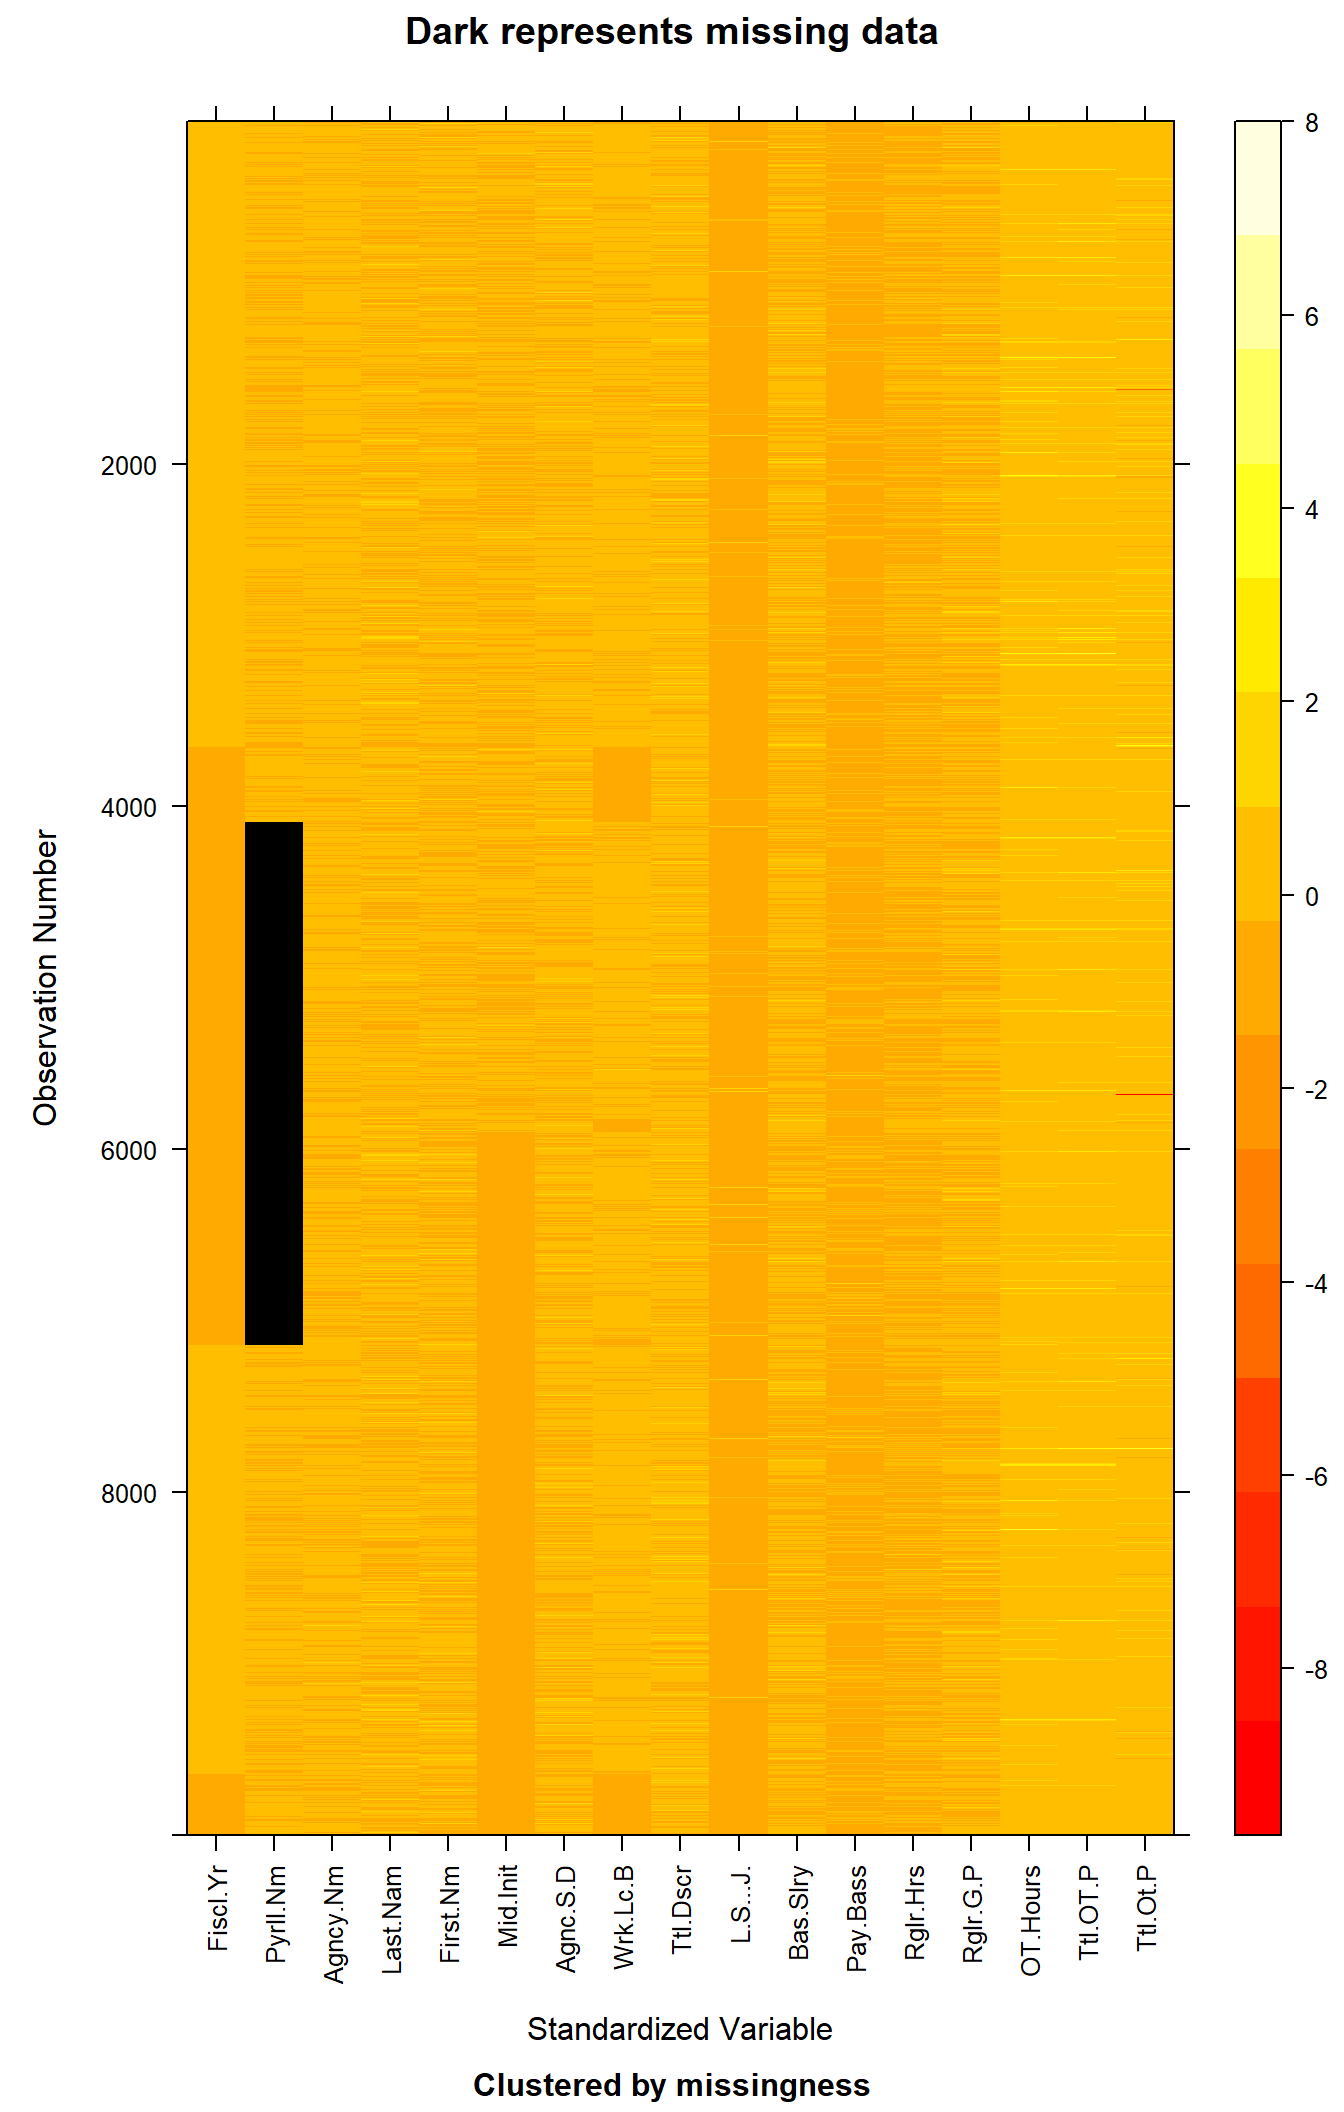
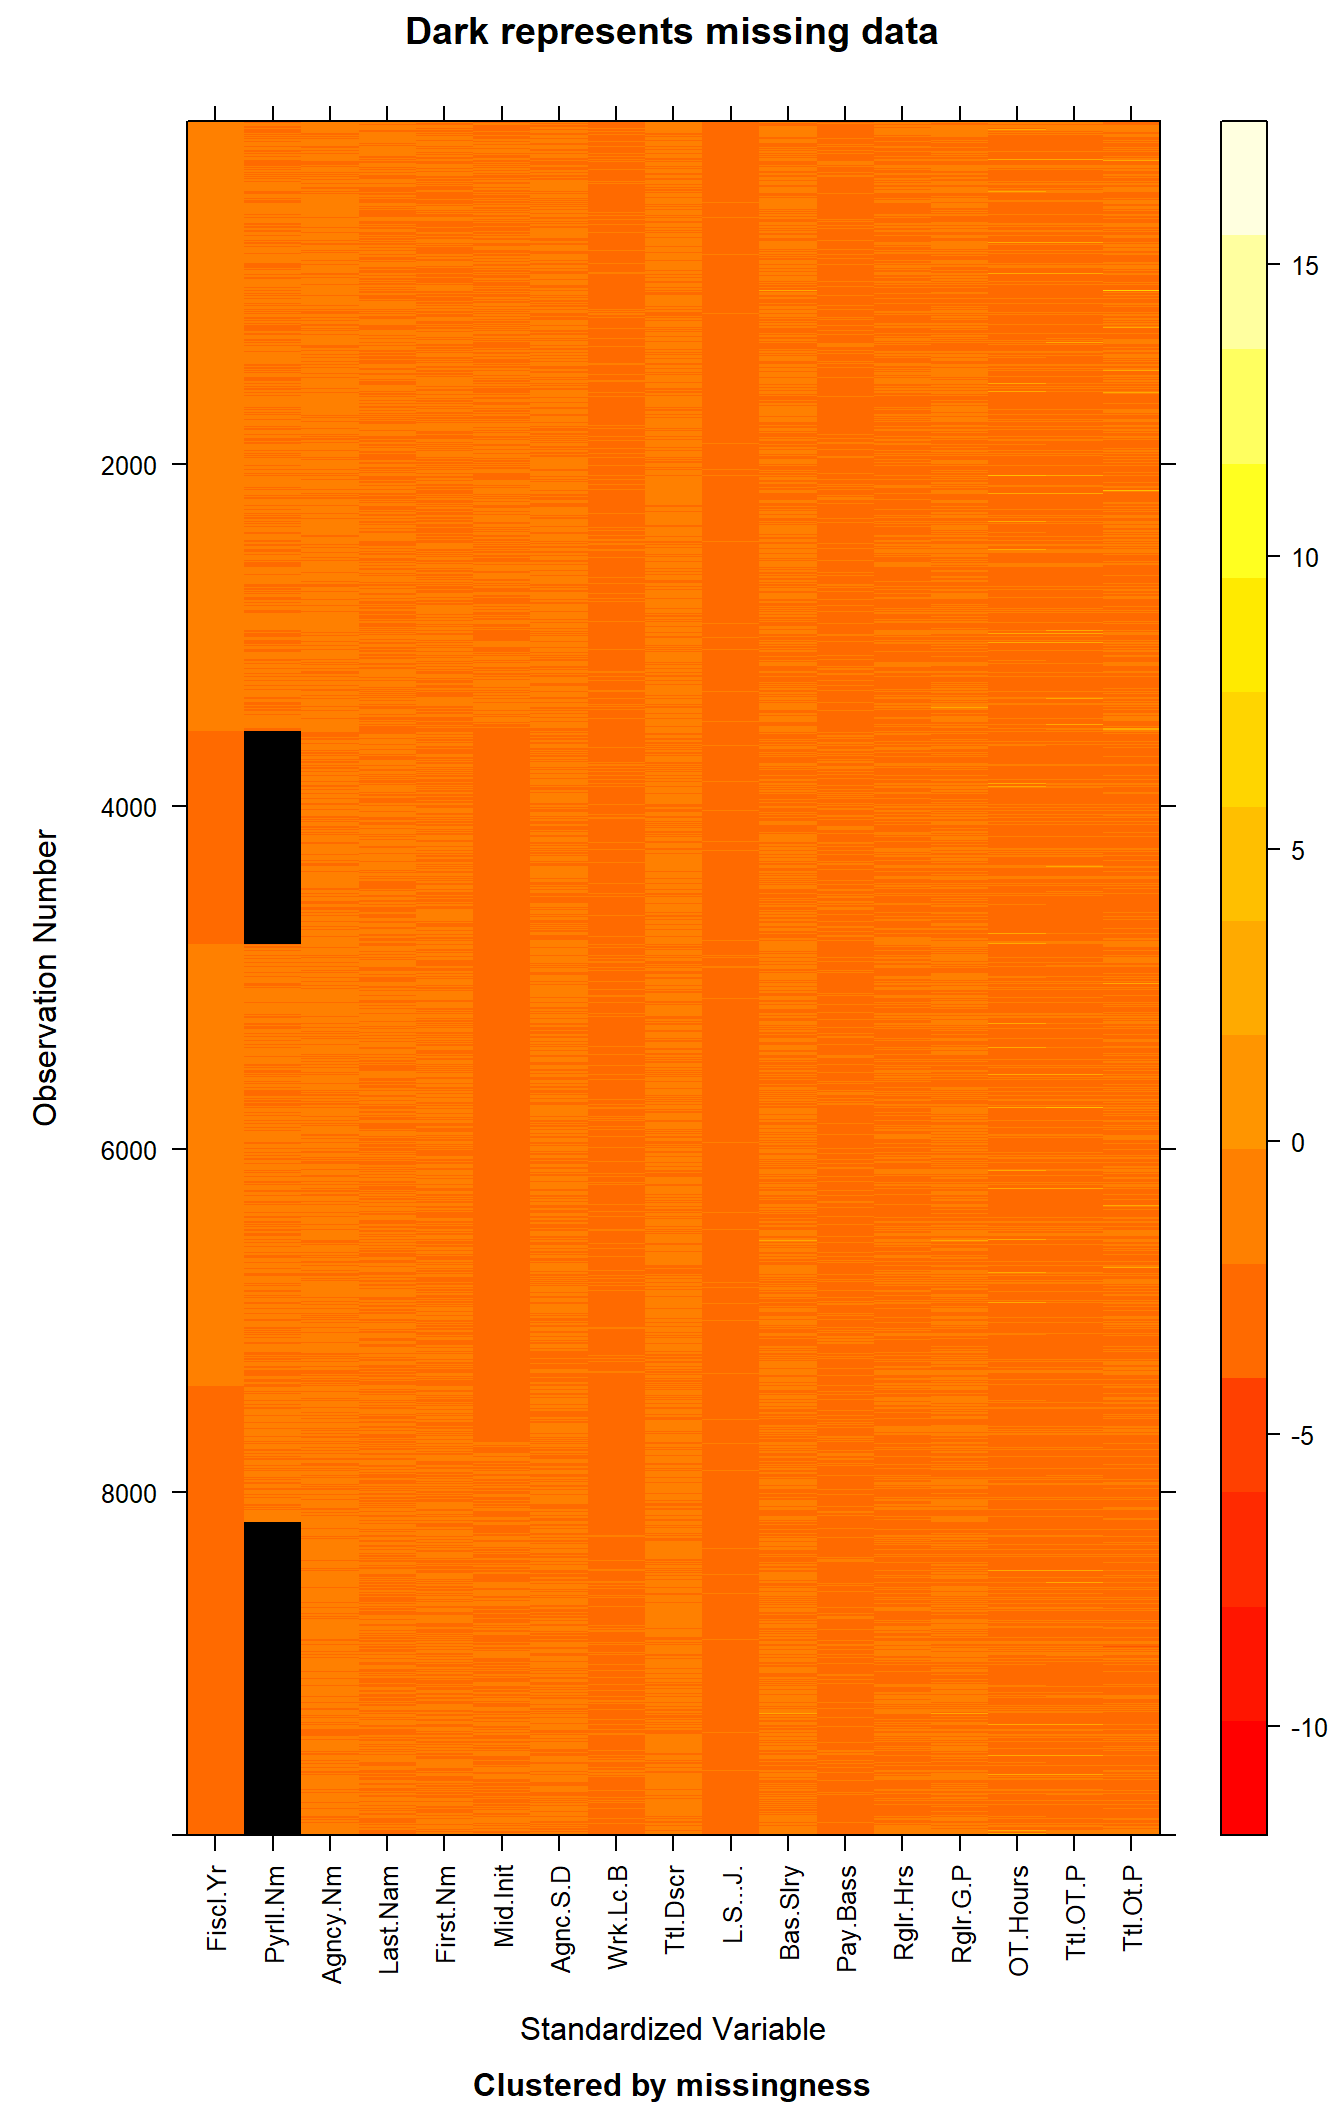
Random Sample and description changes

diff --git a/docs/data.html b/docs/data.html
@@ -224,7 +224,7 @@ pre > code.sourceCode > span > a:first-child::before { text-decoration: underlin
 <summary>Code</summary>
 <div class="sourceCode cell-code" id="cb2"><pre class="sourceCode r code-with-copy"><code class="sourceCode r"><span id="cb2-1"><a href="#cb2-1" aria-hidden="true" tabindex="-1"></a>nyc_payroll_data <span class="ot">&lt;-</span> <span class="fu">fread</span>(<span class="st">"C:/Users/athar/Desktop/Columbia Sem1/edav/nyc_payroll_data.csv"</span>)</span>
 <span id="cb2-2"><a href="#cb2-2" aria-hidden="true" tabindex="-1"></a></span>
-<span id="cb2-3"><a href="#cb2-3" aria-hidden="true" tabindex="-1"></a><span class="co"># Random sample of 4000 rows</span></span>
+<span id="cb2-3"><a href="#cb2-3" aria-hidden="true" tabindex="-1"></a><span class="co"># Random sample of 10000 rows</span></span>
 <span id="cb2-4"><a href="#cb2-4" aria-hidden="true" tabindex="-1"></a>randomized_data <span class="ot">&lt;-</span> nyc_payroll_data[<span class="fu">sample</span>(<span class="fu">nrow</span>(nyc_payroll_data)), ]</span>
 <span id="cb2-5"><a href="#cb2-5" aria-hidden="true" tabindex="-1"></a>nyc_payroll_data <span class="ot">&lt;-</span> randomized_data[<span class="dv">1</span><span class="sc">:</span><span class="dv">10000</span>, ]</span>
 <span id="cb2-6"><a href="#cb2-6" aria-hidden="true" tabindex="-1"></a></span>
@@ -232,41 +232,34 @@ pre > code.sourceCode > span > a:first-child::before { text-decoration: underlin
 <span id="cb2-8"><a href="#cb2-8" aria-hidden="true" tabindex="-1"></a><span class="fu">print</span>(<span class="fu">head</span>(nyc_payroll_data))</span></code><button title="Copy to Clipboard" class="code-copy-button"><i class="bi"></i></button></pre></div>
 </details>
 <div class="cell-output cell-output-stdout">
-<pre><code>   Fiscal Year Payroll Number                    Agency Name    Last Name
-1:        2023            747 DEPT OF ED PER SESSION TEACHER         PENA
-2:        2023             69    HRA/DEPT OF SOCIAL SERVICES        EVANS
-3:        2016             NA COMMUNITY COLLEGE (QUEENSBORO)        DAVIS
-4:        2015             NA BOARD OF ELECTION POLL WORKERS DARMSTAETTER
-5:        2016             NA  COMMUNITY COLLEGE (MANHATTAN)    COLQUHOUN
-6:        2020             56              POLICE DEPARTMENT       FERREE
-   First Name Mid Init Agency Start Date Work Location Borough
-1:      DIANE                 09/05/2000             MANHATTAN
-2:      KIMON                 09/05/2017                QUEENS
-3:     EDWARD        T        08/30/1998                QUEENS
-4:        ANN        M        01/01/2010             MANHATTAN
-5:    SHALTON                 10/02/2004             MANHATTAN
-6:     REGINA        P        07/18/2005                QUEENS
-                                 Title Description Leave Status as of June 30
-1:                            TEACHER- PER SESSION                     ACTIVE
-2: PRINCIPAL ADMINISTRATIVE ASSOCIATE -  NON SUPVR                     ACTIVE
-3:                             ASSISTANT PROFESSOR                     ACTIVE
-4:                                 ELECTION WORKER                     ACTIVE
-5:                                ADJUNCT LECTURER                   SEASONAL
-6:                             SCHOOL SAFETY AGENT                     ACTIVE
-   Base Salary Pay Basis Regular Hours Regular Gross Paid OT Hours
-1:       33.18   per Day          0.00             377.86     0.00
-2:    54531.00 per Annum       1820.00           52280.42   563.75
-3:      172.08   per Day         71.42            8145.12     0.00
-4:        1.00  per Hour          0.00             578.00     0.00
-5:       96.18   per Day        160.00           18906.24     0.00
-6:    50207.00 per Annum       2080.00           49635.86   132.00
-   Total OT Paid Total Other Pay
-1:          0.00            0.00
-2:      20969.79         2690.39
-3:          0.00            0.00
-4:          0.00            0.00
-5:          0.00            0.00
-6:       4703.12         1397.18</code></pre>
+<pre><code>   Fiscal Year Payroll Number                   Agency Name Last Name
+1:        2018            744 DEPT OF ED PARA PROFESSIONALS HERNANDEZ
+2:        2018            463     COMMUNITY COLLEGE (BRONX)  NICHOLAS
+3:        2018            744 DEPT OF ED PARA PROFESSIONALS SCHILLING
+4:        2015             NA      DEPARTMENT OF SANITATION   HANCOCK
+5:        2015             NA        DEPT OF ED PEDAGOGICAL    GOLDEN
+6:        2018            742        DEPT OF ED PEDAGOGICAL     CUFFY
+    First Name Mid Init Agency Start Date Work Location Borough
+1:    PATRICIA        A        05/03/2013             MANHATTAN
+2:      JAMILA                 06/01/2017                 BRONX
+3:       KAREN        A        10/06/2004             MANHATTAN
+4: CHRISTOPHER        M        04/03/2000             MANHATTAN
+5:     SUZANNE        D        10/06/1986                 OTHER
+6:    LAURELLE        V        09/02/1997             MANHATTAN
+           Title Description Leave Status as of June 30 Base Salary Pay Basis
+1:            ANNUAL ED PARA                     ACTIVE     38914.0 per Annum
+2:         COLLEGE ASSISTANT                     ACTIVE        14.6  per Hour
+3:            ANNUAL ED PARA                     ACTIVE     35977.0 per Annum
+4:    GENERAL SUPERINTENDENT                     ACTIVE    135177.0 per Annum
+5:                   TEACHER                     ACTIVE    102043.0 per Annum
+6: TEACHER SPECIAL EDUCATION                     ACTIVE    110163.0 per Annum
+   Regular Hours Regular Gross Paid OT Hours Total OT Paid Total Other Pay
+1:          0.00           43818.34        0          0.00            0.00
+2:        253.00            4307.00        0          0.00            0.00
+3:          0.00           39138.10        0        199.29            0.00
+4:       2085.72          136789.56        0          0.00         5978.28
+5:          0.00          100883.92        0          0.00            0.00
+6:          0.00          105024.56        0          0.00            0.00</code></pre>
 </div>
 </div>
 <div class="cell">
@@ -278,7 +271,7 @@ pre > code.sourceCode > span > a:first-child::before { text-decoration: underlin
 <pre><code>[1] 10000    17</code></pre>
 </div>
 </div>
-<p>The data consists of 5.66 million rows (essentially 5.66 million municipal employees) and 17 columns. Every row basically tells us about the employee salary, their work location, agency, base pay, overtime (if any), etc.</p>
+<p>The data consists of 5.66 million rows (essentially 5.66 million municipal employees) and 17 columns. Every row basically tells us about the employee salary, their work location, agency, base pay, overtime (if any), etc. However, the data size is too large for us to handle hence we random sample our data to the size of 10000 samples.</p>
 <div class="cell">
 <details>
 <summary>Code</summary>
@@ -370,7 +363,7 @@ pre > code.sourceCode > span > a:first-child::before { text-decoration: underlin
 </details>
 <div class="cell-output cell-output-stdout">
 <pre><code>            Payroll Number                Fiscal Year 
-                      3057                          0 
+                      3067                          0 
                Agency Name                  Last Name 
                          0                          0 
                 First Name                   Mid Init 
@@ -417,8 +410,7 @@ pre > code.sourceCode > span > a:first-child::before { text-decoration: underlin
 <pre><code>Warning in .local(.Object, ...): Mid Init : some observations changing to NA</code></pre>
 </div>
 <div class="cell-output cell-output-stderr">
-<pre><code>Warning in .local(.Object, ...): Agency Start Date : some observations changing
-to NA</code></pre>
+<pre><code>Warning in .local(.Object, ...): Mid Init : some observations . changing to NA</code></pre>
 </div>
 <div class="cell-output cell-output-stderr">
 <pre><code>Warning in .local(.Object, ...): Work Location Borough : some observations
